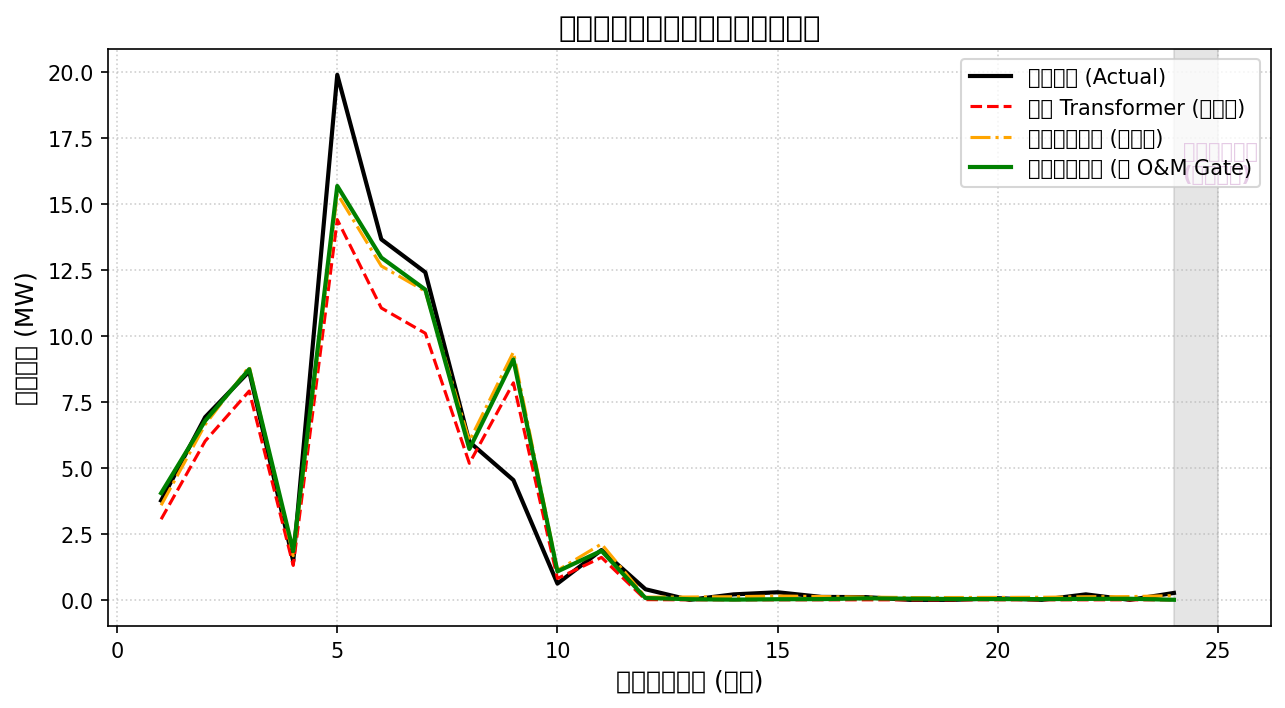
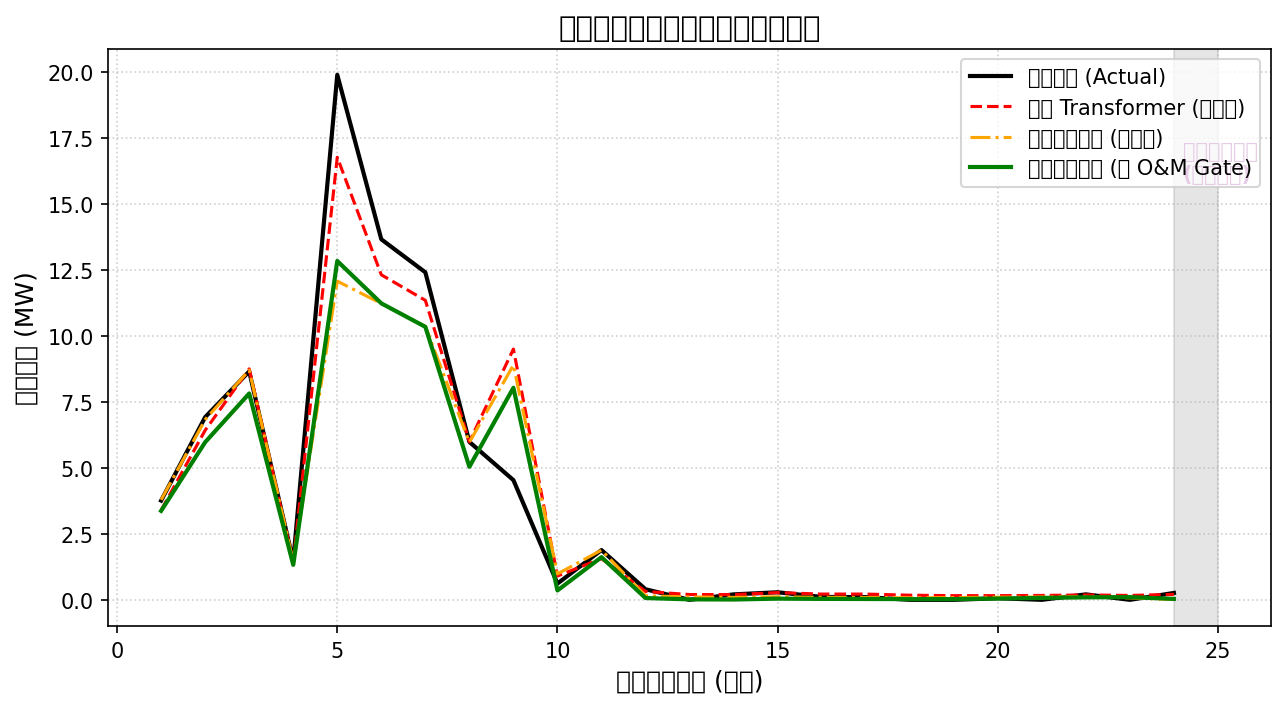
Auto-update experiment results and report [skip ci]

Changed region(s): [[0.1556, 0.2175, 0.9027, 0.8701], [0.1245, 0.6215, 0.1556, 0.7147]]

diff --git a/实验结果报告.md b/实验结果报告.md
@@ -7,18 +7,18 @@
 
 | 评估场站   | 场站特异性专属模型 MAE   | 空间共享多站模型 MAE   | 场站特异性专属模型 RMSE   | 空间共享多站模型 RMSE   | 性能提升率 (MAE)   |
 |:-------|:----------------|:---------------|:-----------------|:----------------|:--------------|
-| 场站 A   | 2.060 MW        | 5.773 MW       | 6.899 MW         | 9.933 MW        | 64.32%        |
-| 场站 B   | 1.935 MW        | 2.444 MW       | 4.153 MW         | 4.984 MW        | 20.83%        |
-| 场站 C   | 0.566 MW        | 0.827 MW       | 1.495 MW         | 1.823 MW        | 31.54%        |
+| 场站 A   | 2.265 MW        | 7.288 MW       | 7.299 MW         | 12.556 MW       | 68.93%        |
+| 场站 B   | 2.015 MW        | 3.702 MW       | 4.168 MW         | 6.499 MW        | 45.59%        |
+| 场站 C   | 0.931 MW        | 1.010 MW       | 1.940 MW         | 2.050 MW        | 7.76%         |
 
 ## 2. 实验二：融入运维数据前后对比
 在故障和检修频发且老化的场站 C 上进行对比实验，分别验证基线 Transformer（不融合任何运维状态数据）与本章所提运维感知模型的表现：
 
-| 评估时段             | 基线 Transformer (未融合) MAE   | 运维感知 Transformer (融合) MAE   | 误差降幅   |
-|:-----------------|:---------------------------|:----------------------------|:-------|
-| 总体时段 (Overall)   | 1.096 MW                   | 0.566 MW                    | 48.34% |
-| 常规无事件时段 (Normal) | 0.860 MW                   | 0.405 MW                    | 52.87% |
-| 运维事件时段 (Events)  | 2.439 MW                   | 1.482 MW                    | 39.25% |
+| 评估时段             | 基线 Transformer (未融合) MAE   | 运维感知 Transformer (融合) MAE   | 误差降幅    |
+|:-----------------|:---------------------------|:----------------------------|:--------|
+| 总体时段 (Overall)   | 1.066 MW                   | 0.931 MW                    | 12.65%  |
+| 常规无事件时段 (Normal) | 0.766 MW                   | 0.901 MW                    | -17.61% |
+| 运维事件时段 (Events)  | 2.775 MW                   | 1.106 MW                    | 60.16%  |
 
 > **分析**：引入运维事件特征后，模型在总体时段和运维事件切片上均有误差下降，说明事件状态对异常片段预测具有补充信息价值。具体降幅以表中自动生成数值为准。
 
@@ -27,7 +27,7 @@
 
 | 指标评估                     | 基线 Transformer (不含事件)   | 常规特征融合模型 (无门控)   | 运维感知 Transformer (含门控)   | 门控置零提升幅度   |
 |:-------------------------|:------------------------|:-----------------|:-------------------------|:-----------|
-| 计划检修时段 (Maintenance) MAE | 7.322 MW                | 0.115 MW         | 0.106 MW                 | 7.67%      |
+| 计划检修时段 (Maintenance) MAE | 7.837 MW                | 0.109 MW         | 0.106 MW                 | 3.13%      |
 
 ### 典型检修时段预测曲线拟合度对比：
 
@@ -38,13 +38,13 @@
 ## 4. 实验四：门控先验偏置 $\beta_1$ 的灵敏度与收敛性分析
 探究可微门控中检修状态先验偏置 $\beta_1$ 设定对输出置零效果的影响。实验在场站 C 上进行测试：
 
-|   门控先验偏置 beta_1 | 计划检修期 MAE   | 物理收敛状态评估      |
-|----------------:|:------------|:--------------|
-|               0 | 0.1280 MW   | 较强抑制 (存在微量残留) |
-|               1 | 0.1187 MW   | 高抑制区 (残留较小)   |
-|               5 | 0.1067 MW   | 高抑制区 (残留较小)   |
-|              10 | 0.1116 MW   | 高抑制区 (残留较小)   |
-|              15 | 0.1072 MW   | 高抑制区 (残留较小)   |
+|   门控先验偏置 beta_1 | 计划检修期 MAE   | 物理收敛状态评估    |
+|----------------:|:------------|:------------|
+|               0 | 0.1126 MW   | 高抑制区 (残留较小) |
+|               1 | 0.1072 MW   | 高抑制区 (残留较小) |
+|               5 | 0.1082 MW   | 高抑制区 (残留较小) |
+|              10 | 0.1096 MW   | 高抑制区 (残留较小) |
+|              15 | 0.1103 MW   | 高抑制区 (残留较小) |
 
 > **分析**：随着 $\beta_1$ 增加，检修期输出抑制增强并逐步进入饱和区。过小偏置可能保留预测残留，过大偏置可能削弱门控分支梯度，因此本文将 $\beta_1=10.0$ 作为折中设置，并将规则后处理作为工程上限对照。
 
@@ -53,9 +53,9 @@
 
 | 超前预测窗口 H   | 测试集 MAE   | 测试集 RMSE   |
 |:-----------|:----------|:-----------|
-| 12 小时      | 0.880 MW  | 1.989 MW   |
-| 24 小时      | 0.626 MW  | 1.469 MW   |
-| 48 小时      | 0.578 MW  | 1.410 MW   |
-| 72 小时      | 0.610 MW  | 1.394 MW   |
+| 12 小时      | 0.647 MW  | 1.545 MW   |
+| 24 小时      | 0.513 MW  | 1.492 MW   |
+| 48 小时      | 0.672 MW  | 1.469 MW   |
+| 72 小时      | 0.712 MW  | 1.423 MW   |
 
 > **分析**：随着超前预测步长增加，预测难度随之加大，MAE 与 RMSE 指标通常会上升。该实验用于说明模型对不同预测跨度的敏感性，而非单独证明泛化能力。